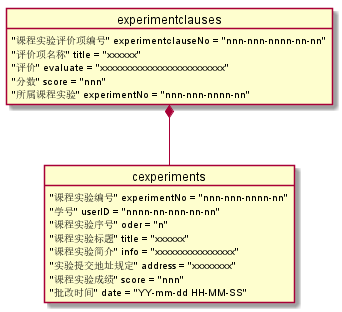
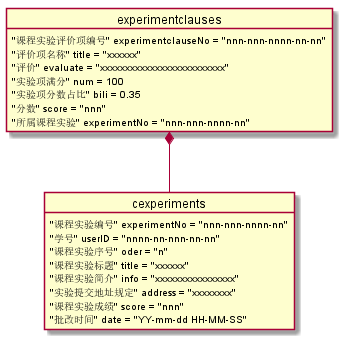
增加了课程实验评分项的满分与其在实验中占比

Changed region(s): [[0.0, 0.0, 0.9942, 0.4327], [0.117, 0.5192, 0.8772, 0.9808]]

diff --git a/test6/数据库设计.md b/test6/数据库设计.md
@@ -92,6 +92,8 @@
 |:-------:|:------:|:----:|:---:|:-----|
 |experimentclauseNo|varchar(14)|N|PK|实验课程评分项编号|
 |title|varchar(20)|N||评分项名称|
+|num|int|N||评分项满分|
+|bili|float|N||实验评分项成绩占比|
 |experimentNo|varchar(12)|N|FK|所属课程实验|
 
 <div id="cexperiments"></div>
@@ -118,6 +120,8 @@
 |experimentclauseNo|varchar(14)|N|PK|实验课程评分项编号|
 |title|varchar(20)|N||评分项名称|
 |evaluate|varchar(100)|N||评价|
+|num|int|N||评分项满分|
+|bili|float|N||实验评分项成绩占比|
 |score|float|Y||成绩|
 |experimentNo|varchar(12)|N|FK|所属实验课程|
 
